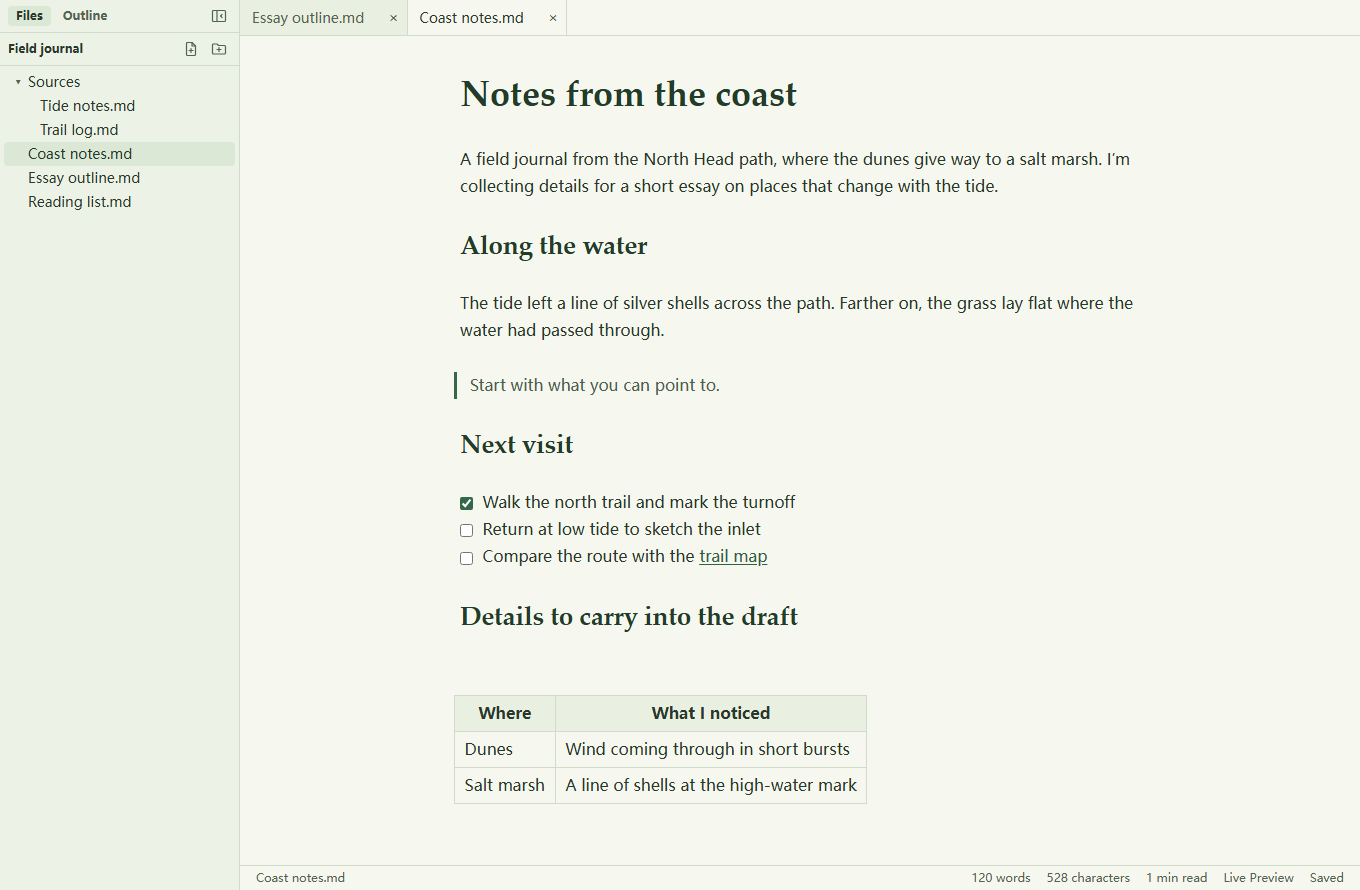
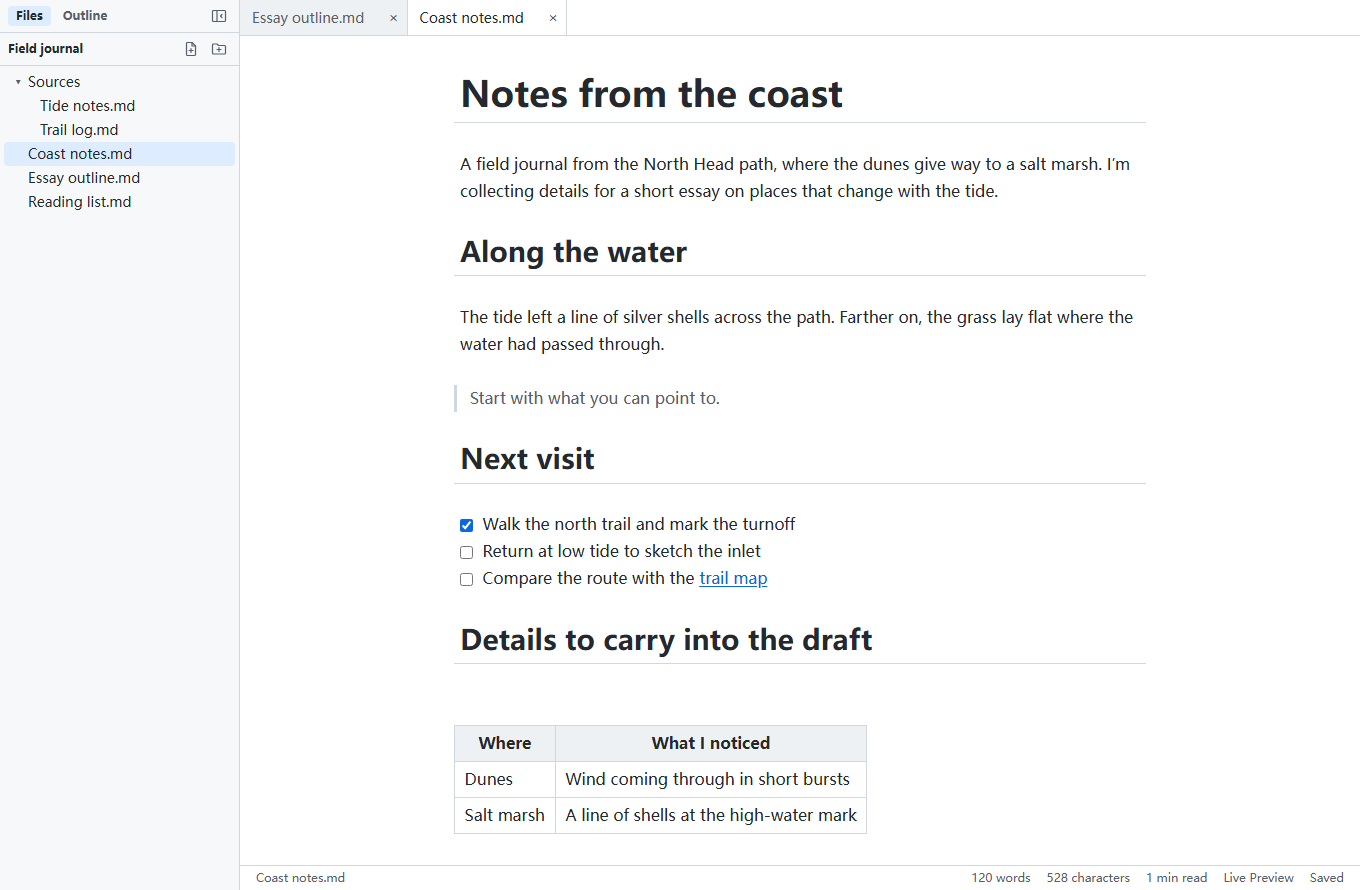
docs: show the GitHub theme in the README

diff --git a/README.md b/README.md
@@ -4,8 +4,7 @@
 
 <h1 align="center">MINT</h1>
 
-<p align="center">MINT = <strong>M</strong>INT <strong>I</strong>s <strong>N</strong>ot <strong>T</strong>ypora<br>
-A recursive acronym. Expand the first word and you get the same four words again.</p>
+<p align="center">MINT = <strong>M</strong>INT <strong>I</strong>s <strong>N</strong>ot <strong>T</strong>ypora</p>
 
 <p align="center">An open-source desktop Markdown editor with live preview.</p>
 
@@ -24,7 +23,7 @@ A recursive acronym. Expand the first word and you get the same four words again
 
 Open a Markdown file and edit it in place. Live preview renders the document as you type and reveals the Markdown syntax at the cursor. Saving preserves the original bytes outside your edits.
 
-![MINT editing a field journal in the light Sage theme, with a folder tree, tabs, and a rendered task list](docs/screenshots/live-preview.png)
+![MINT editing a field journal in the light GitHub theme, with a folder tree, tabs, and a rendered task list](docs/screenshots/live-preview.png)
 
 ## Install
 

diff --git a/README.zh-CN.md b/README.zh-CN.md
@@ -4,8 +4,7 @@
 
 <h1 align="center">MINT</h1>
 
-<p align="center">MINT = <strong>M</strong>INT <strong>I</strong>s <strong>N</strong>ot <strong>T</strong>ypora<br>
-这是一个递归缩写。展开第一个词 MINT，又会得到同样的四个词。</p>
+<p align="center">MINT = <strong>M</strong>INT <strong>I</strong>s <strong>N</strong>ot <strong>T</strong>ypora</p>
 
 <p align="center">支持实时预览的开源桌面 Markdown 编辑器。</p>
 
@@ -24,7 +23,7 @@
 
 直接打开和编辑磁盘上的 Markdown 文件。实时预览会在写作时渲染文档，并在光标处显露 Markdown 标记。保存时，编辑范围之外的内容按原字节保留。
 
-![MINT 使用青苔亮色主题编辑海岸手记，左侧显示文件树，正文包含已渲染的任务列表](docs/screenshots/live-preview.png)
+![MINT 使用 GitHub 亮色主题编辑海岸手记，左侧显示文件树，正文包含已渲染的任务列表](docs/screenshots/live-preview.png)
 
 ## 安装
 
